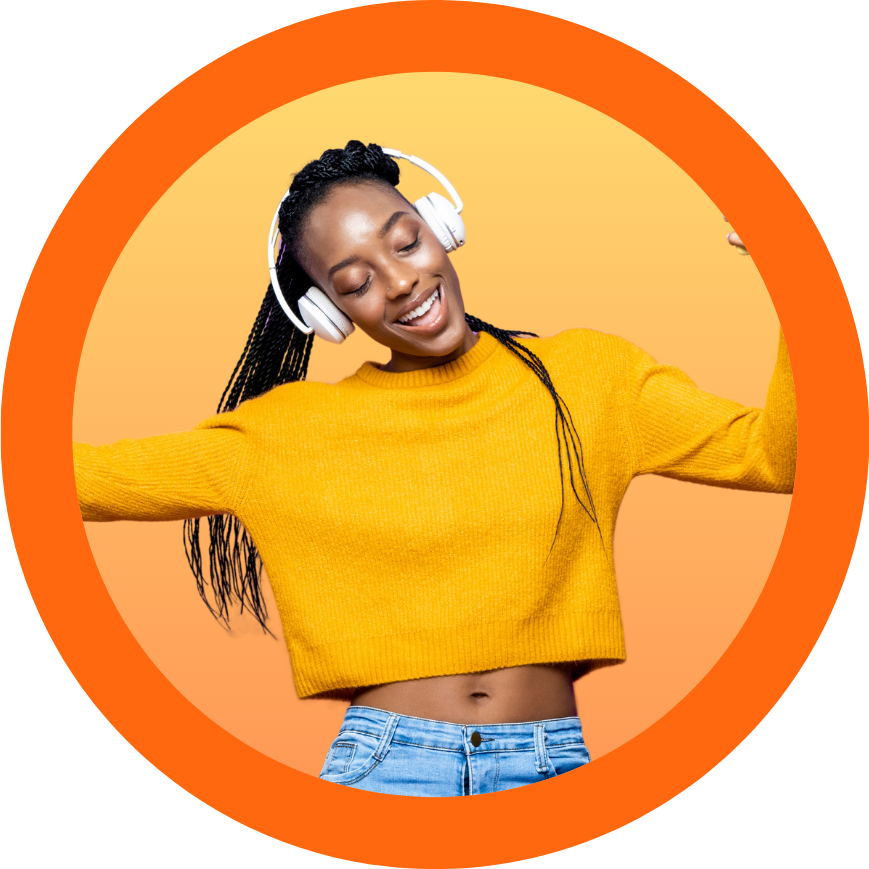
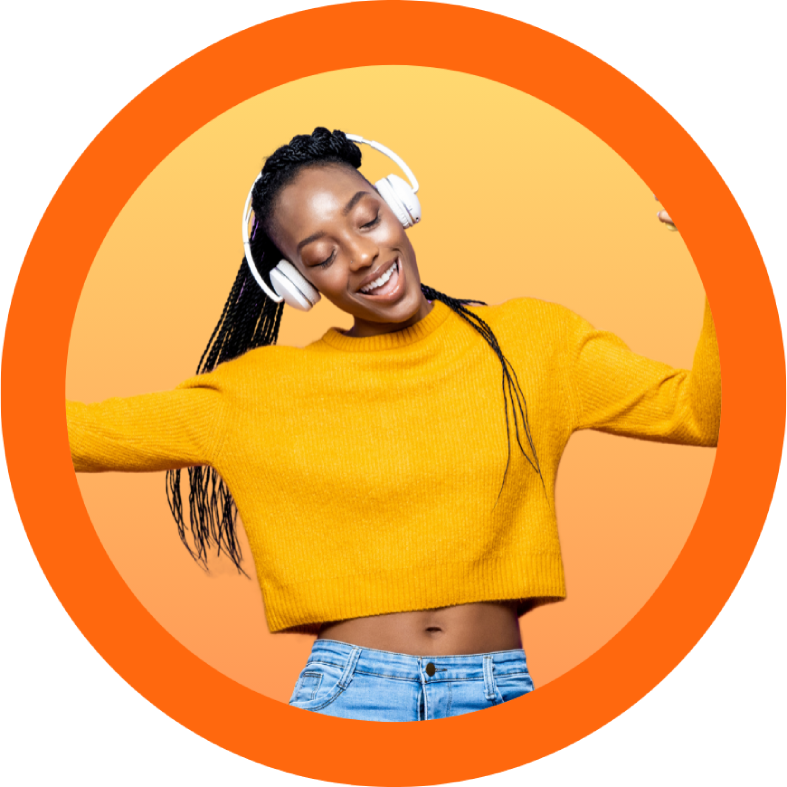
Fix timer kill

diff --git a/index.html b/index.html
@@ -67,7 +67,7 @@
 </ul>
 
 <!--    Main Body    -->
-<div id="swup" class="main-body" style="width: 100%; position: relative; overflow-x: hidden; height: 100%;">
+<div id="swup" class="main-body" style="width: 100%; position: relative; overflow: hidden; height: 100%;">
     <!--    Title Section    -->
     <div class="parallax-container index-body">
         <div class="parallax" style="width: 100%;">
@@ -300,21 +300,21 @@
         <i class="material-icons medium rotate-270">expand_circle_down</i>
     </a>
     <div class="row carousel-row">
-        <div class="carousel carousel-slider center col s12 carousel-bottom" style="z-index: 5;">
+        <div class="carousel center col s12 carousel-bottom" style="z-index: 5; overflow: visible !important;">
 
             <div class="carousel-item container" href="#one!" style="min-height: 0 !important;">
                 <a href="features.html?anchor=%23people">
                     <div class="row">
                         <img class="col s12" src="images/Carousel1.png"
-                             style="width: 60vw; position: absolute; left: 20vw; top: 10vw; z-index: 2;" alt="Person 1">
-                        <img class="carousel-item-bottom col s12" style="position: relative; width: 80vw; left: 10vw;"
+                             style="width: 100%; position: absolute; z-index: 2;" alt="Person 1">
+                        <img class="carousel-item-bottom col s12" style="position: relative; width: 110%; left: -10%; top: -10%"
                              src="images/dots_circle.svg" alt="Dots">
                     </div>
-                    <div class="row">
+                    <div>
                         <h1 class="col s12 carousel-bottom-text white-text"
                             style="margin: 0 !important; text-shadow: 3px 3px 20px black"
                             data-original-font-size="100px">
-                            The Party Planner
+                            The Chore Conqueror
                         </h1>
                     </div>
                 </a>
@@ -324,15 +324,51 @@
                 <a href="features.html?anchor=%23people">
                     <div class="row">
                         <img class="col s12" src="images/Carousel2.png"
-                             style="width: 60vw; position: absolute; left: 20vw; top: 10vw; z-index: 2;" alt="Person 2">
-                        <img class="carousel-item-bottom col s12" style="position: relative; width: 80vw; left: 10vw;"
+                             style="width: 100%; position: absolute; z-index: 2;" alt="Person 2">
+                        <img class="carousel-item-bottom col s12" style="position: relative; width: 110%; left: -10%; top: -10%"
                              src="images/dots_circle.svg" alt="Dots">
                     </div>
-                    <div class="row">
+                    <div>
                         <h1 class="col s12 carousel-bottom-text white-text"
                             style="margin: 0 !important; text-shadow: 3px 3px 20px black"
                             data-original-font-size="100px">
-                            The Chef
+                            The Calendar Maestro
+                        </h1>
+                    </div>
+                </a>
+            </div>
+
+            <div class="carousel-item" href="#three!" style="min-height: 0 !important;">
+                <a href="features.html?anchor=%23people">
+                    <div class="row">
+                        <img class="col s12" src="images/Carousel3.png"
+                             style="width: 100%; position: absolute; z-index: 2;" alt="Person 2">
+                        <img class="carousel-item-bottom col s12" style="position: relative; width: 110%; left: -10%; top: -10%"
+                             src="images/dots_circle.svg" alt="Dots">
+                    </div>
+                    <div>
+                        <h1 class="col s12 carousel-bottom-text white-text"
+                            style="margin: 0 !important; text-shadow: 3px 3px 20px black"
+                            data-original-font-size="100px">
+                            The Bill Boss
+                        </h1>
+                    </div>
+                </a>
+            </div>
+
+            <div class="carousel-item" href="#four!" style="min-height: 0 !important;">
+                <a href="features.html?anchor=%23people">
+                    <div class="row">
+                        <img class="col s12" src="images/Carousel4.png"
+                             style="width: 100%; position: absolute; z-index: 2;" alt="Person 2">
+                        <img class="carousel-item-bottom col s12" style="position: relative; width: 110%; left: -10%; top: -10%"
+                             src="images/dots_circle.svg" alt="Dots">
+                    </div>
+                    <div>
+                        <h1 class="col s12 carousel-bottom-text white-text"
+                            style="margin: 0 !important; text-shadow: 3px 3px 20px black"
+                            data-original-font-size="100px">
+                            The Shopping Savant
                         </h1>
                     </div>
                 </a>

diff --git a/scripts/AllScripts.js b/scripts/AllScripts.js
@@ -22,7 +22,6 @@ const swup = new Swup({
                 await gsap.to('#swup', {opacity: 0, duration: 0.25});
             },
             in: async (done, data) => {
-                console.log(data)
                 let tl = gsap.timeline();
 
                 let urlSearchParams = new URLSearchParams(window.location.search);
@@ -49,11 +48,6 @@ document.addEventListener('DOMContentLoaded', () => {pageInit()});
 // Listen for page load if first page viewed is this one
 window.addEventListener('load', () => {
     pageLoad();
-
-    if (document.querySelector('.carousel-top')) {
-        carouselInterval = setInterval(moveCarousel, 5000,
-            document.querySelector('.carousel-top'), 'next');
-    }
 
     // On window resize, resize items and adjust text
     window.addEventListener("resize", () => {
